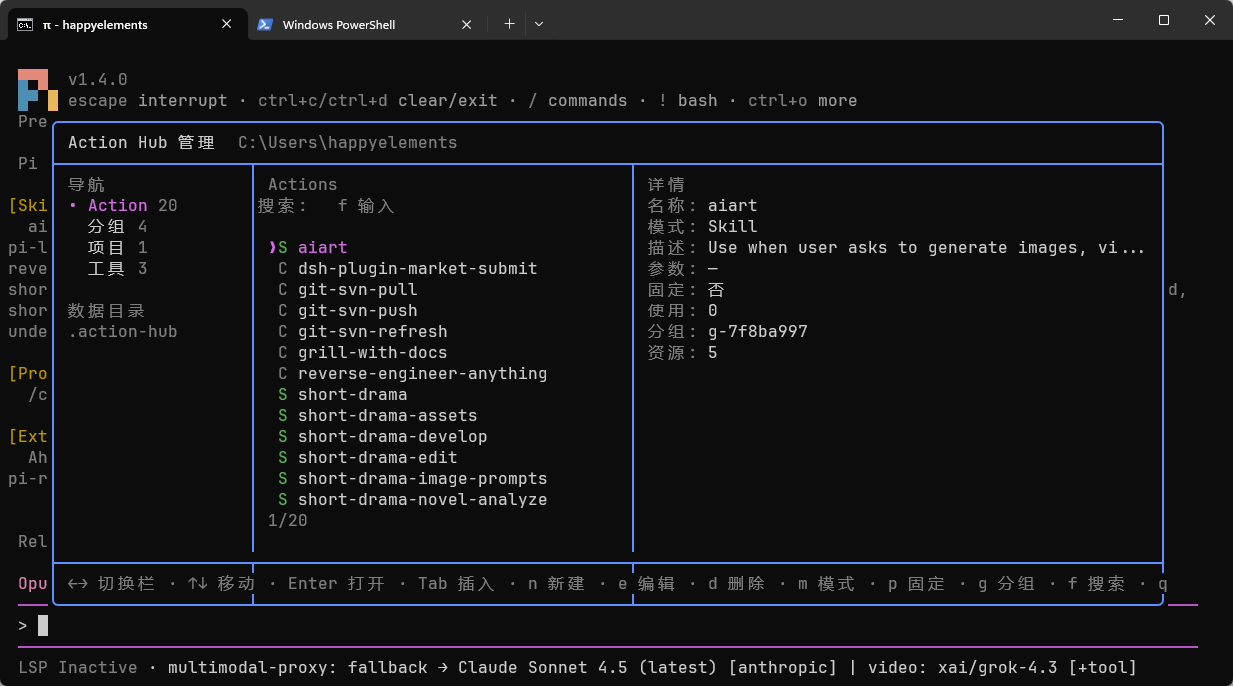
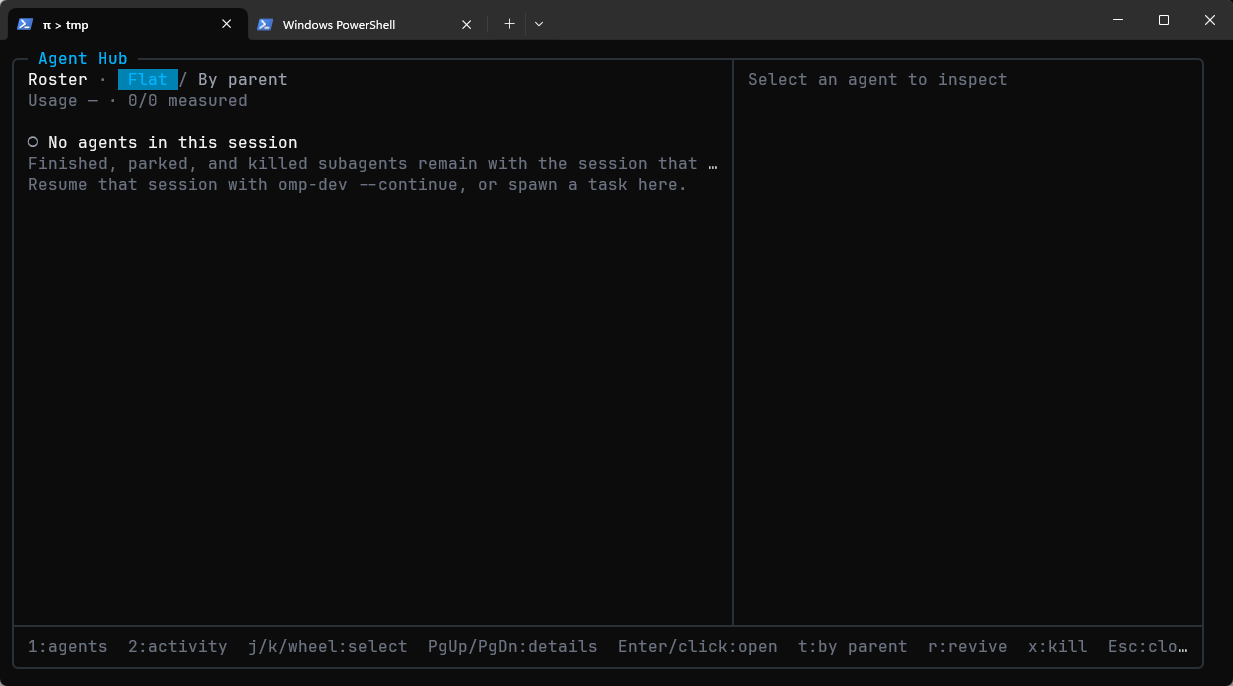
docs: address review findings and refresh package metadata

diff --git a/packages/pi/README.md b/packages/pi/README.md
@@ -27,7 +27,7 @@ omp plugin install git:github.com/AhaCrazy/action-hub --force
 omp plugin uninstall action-hub-workspace
 ```
 
-OMP 插件包名是 `action-hub-workspace`；OMP 不通过 Pi 的 release `.tgz` 安装。
+OMP 插件包名是 `action-hub-workspace`；推荐使用 Git 安装，Pi 的 release `.tgz` 不是官方 OMP 路径。
 
 ## 打开面板
 
@@ -114,30 +114,28 @@ C:\Users\<你>\.action-hub
 
 `state.json` 只保存共享的 Action 元数据、分组和全局分组。
 
-项目范围保存在当前 harness 的 session 目录中：
+项目范围保存在当前 harness 的 session 存储目录中，子目录名由项目根编码（最近的已登记工作区或 `.git` 祖先；没有则使用 cwd）：
 
 ```text
 Pi:
-C:\Users\<你>\.pi\agent\sessions\<workdir>\action-hub\scope.json
+C:\Users\<你>\.pi\agent\sessions\<encoded-project-root>\action-hub\scope.json
 
 OMP:
-C:\Users\<你>\.omp\agent\sessions\<workdir>\action-hub\scope.json
+C:\Users\<你>\.omp\agent\sessions\<encoded-project-root>\action-hub\scope.json
 ```
 
 使用 OMP profile 时，范围位于：
 
 ```text
-C:\Users\<你>\.omp\profiles\<profile>\agent\sessions\<workdir>\action-hub\scope.json
+C:\Users\<你>\.omp\profiles\<profile>\agent\sessions\<encoded-project-root>\action-hub\scope.json
 ```
 
-项目范围使用当前 session 的实际目录，因此在 Pi、OMP 以及 OMP profile 之间各自独立；删除该 workdir 的 session 目录时，范围会一起删除。
+项目范围使用当前 session 的存储根 + 项目根编码，因此在 Pi、OMP 以及 OMP profile 之间各自独立；删除对应 session 子目录时，范围会一起删除。
 
 ## 平台差异
 
 - Pi / OMP 没有 DSH 的侧边栏和 composer chip；Action 直接插入编辑器。
 - Pi / OMP 的 Skill 入口使用原生 `/skill:<name>`。
 - 修改模式、分组或项目范围后，退出管理界面会自动重新加载资源；如果编辑器里已有草稿或当前上下文无法提交 reload 命令，会提示执行 `/ah reload`。外部文件修改也可用 `/ah reload`。
-- OMP 通过其 Pi 兼容层加载本扩展；项目范围跟随 OMP 的实际 session 目录，包括 `--profile`。
 - OMP 的 `Alt+A` 属于内置 Agent Hub；Action 面板使用 `/ah` 或 `Alt+Shift+A`。
-- 修改模式、分组或项目范围后，退出管理界面会自动重新加载；如果编辑器里已有草稿或当前上下文无法提交 reload 命令，会提示执行 `/ah reload`。
 - 管理界面的当前焦点栏标题前显示 `▶`，非焦点栏内容变暗。

diff --git a/CONTRIBUTING.md b/CONTRIBUTING.md
@@ -22,7 +22,7 @@ action-hub/
 - `dsh-action-hub`
 - `pi-action-hub`
 
-OMP 不单独发布包，而是通过 OMP 的 legacy Pi 兼容层加载 `pi-action-hub`。两个发布包在构建时都会把 core 打进自己的 `dist`，因此不需要单独发布 core npm 包。
+OMP 不单独发布包：它从仓库根安装，OMP 插件名是 `action-hub-workspace`，内部复用 `packages/pi` 适配器。两个发布包在构建时都会把 core 打进自己的 `dist`，因此不需要单独发布 core npm 包。
 
 ## 开发环境
 
@@ -88,7 +88,7 @@ pi-action-hub-0.1.0.tgz
 ### DSH
 
 ```powershell
-dsh plugin --profile desktop add E:\Data\Projs\action-hub\packages\dsh
+dsh plugin --profile desktop add .\packages\dsh
 ```
 
 安装后重启 DSH，验证 Action Hub 页面和 `Alt+A`。
@@ -96,7 +96,7 @@ dsh plugin --profile desktop add E:\Data\Projs\action-hub\packages\dsh
 ### Pi
 
 ```powershell
-pi install E:\Data\Projs\action-hub\packages\pi
+pi install .\packages\pi
 ```
 
 临时加载 Pi 扩展：
@@ -124,7 +124,7 @@ omp plugin install git:github.com/AhaCrazy/action-hub --force
 - `/ah` 能打开 Action 面板；
 - `Alt+Shift+A` 能打开 Action 面板（OMP 的 `Alt+A` 属于 Agent Hub）；
 - `Ctrl+Alt+A` 能打开管理界面；
-- 项目范围写入 OMP 的 session 目录，而不是 `~/.pi`。
+- 项目范围写入 OMP 的 session 存储根 + 项目根编码，而不是 `~/.pi`。
 
 ## 发布
 
@@ -137,7 +137,7 @@ npm publish --workspace pi-action-hub --access public
 
 ### DSH
 
-发布 `dsh-action-hub` 到 npm 或 DSH 插件市场，然后更新 GitHub Release 产物。
+发布 `dsh-action-hub` 到 npm 或 DSH 插件市场属于可选渠道；用户安装只依赖 GitHub Release 的 `.tgz`。
 
 ### GitHub Release
 
@@ -152,6 +152,22 @@ npm publish --workspace pi-action-hub --access public
    - `pi-action-hub.tgz`
    - `pi-action-hub-<version>.tgz`
 5. 更新 Release 说明。
+
+稳定别名由版本化文件复制生成：
+
+```powershell
+Copy-Item pi-action-hub-0.1.0.tgz pi-action-hub.tgz
+Copy-Item dsh-action-hub-0.1.0.tgz dsh-action-hub.tgz
+```
+
+发布后校验：
+
+- 4 个资产的字节数与本地 `.tgz` 一致；
+- `sha256` 与本地文件一致；
+- `releases/latest/download/dsh-action-hub.tgz` 返回 200；
+- 包内 README、`dist` 产物来自同一个 docs 冻结后的 commit。
+
+当前没有 CI，发布与资产上传为手动流程。先冻结文档和代码，再执行 `build` / `pack`，避免包内 README 落后于 main。
 
 Release 说明至少包含：
 

diff --git a/docs/architecture.md b/docs/architecture.md
@@ -42,27 +42,29 @@ core（本仓库）
 ```text
 $ACTION_HUB_HOME/            # 默认 ~/.action-hub
   library/
-  state.json                 # 共享：Action、分组、全局分组
-  .lock
+  state.json                 # 共享：Action、分组、全局分组、使用记录
+  .write.lock/               # 跨进程写锁
 
 DSH 本地
   ~/.dsh/action-hub/workspaces/<workspaceId>.json
 
 Pi 本地
-  ~/.pi/agent/sessions/<encoded-cwd>/action-hub/scope.json
+  ~/.pi/agent/sessions/<encoded-project-root>/action-hub/scope.json
 
 OMP 本地
-  ~/.omp/agent/sessions/<encoded-cwd>/action-hub/scope.json
+  ~/.omp/agent/sessions/<encoded-project-root>/action-hub/scope.json
   （--profile 时在 ~/.omp/profiles/<profile>/agent/sessions）
 ```
 
 适配器可以把 `ACTION_HUB_HOME` 指向某个 harness 专属目录，但共用默认目录能让用户在所有 harness 中使用同一份可移植库。
 
+Pi / OMP 的 `<encoded-project-root>` 由项目根编码：最近的已登记工作区或 `.git` 祖先，没有则使用 cwd；session 存储根只决定 `scope.json` 放在哪个 session 根下。
+
 项目范围的归属规则：
 
 - 它属于某个 harness 的工作区，而不是项目仓库；
 - DSH 用稳定的 workspace ID 作为键；
-- Pi / OMP 用当前 session 目录作为键；
+- Pi / OMP 用项目根编码作为 session 目录下的子目录键；
 - 三个 harness 的项目范围默认不共享；
 - 删除工作区时，对应范围文件由适配器清理或随目录一起删除。
 
@@ -71,7 +73,9 @@ OMP 本地
 1. 由跨进程锁保护；
 2. 在锁内完成读取—修改—写入；
 3. 写入临时文件后原子重命名；
-4. 写入完成后通过文件监听通知已打开的 UI。
+4. 写入完成后由适配器显式失效缓存或 reload。
+
+当前没有 `fs.watch` 文件监听；UI 刷新依赖显式 invalidate、管理界面退出时的 reload 或 `/ah reload`。文件监听属于后续项。
 
 项目范围文件由各适配器原子写入；它们不属于共享锁的临界区。
 

diff --git a/docs/pi-adapter.md b/docs/pi-adapter.md
@@ -18,7 +18,7 @@
 - **Skill 类型 Action** → 在 `resources_discover` 中返回它的目录；Pi 会把它放进模型目录，并提供 `/skill:<name>`。
 - **Command 类型 Action** → 永不作为 Skill 返回；面板把渲染后的提示词插入编辑器。
 - **面板** → 自定义 TUI overlay：搜索（子串 + 正则）、列表、预览、参数、Enter 插入。
-- **项目范围** → 按当前 harness 的实际 session 目录保存：`<sessionDir>/<encoded-cwd>/action-hub/scope.json`。Pi 默认在 `~/.pi/agent/sessions`，OMP 默认在 `~/.omp/agent/sessions`（profile 在 `~/.omp/profiles/<profile>/agent/sessions`）；删除该 session 工作目录会一起删除范围。
+- **项目范围** → 按当前 harness 的实际 session 存储根保存：`<sessionDir>/<encoded-project-root>/action-hub/scope.json`。项目根取最近的已登记工作区或 `.git` 祖先，没有则取 cwd。Pi 默认在 `~/.pi/agent/sessions`，OMP 默认在 `~/.omp/agent/sessions`（profile 在 `~/.omp/profiles/<profile>/agent/sessions`）；删除该 session 子目录会一起删除范围。
 - **管理** → `/ah manage` 与 `Ctrl+Alt+A` 打开 TUI 管理界面，覆盖 Action、分组、项目范围、导入导出和设置。通过 `/ah manage` 进入时使用原生 reload；快捷键入口会尝试通过编辑器提交 `/ah reload` 自动重载，编辑器有草稿或提交失败时提示手动执行 `/ah reload`。
 
 ## OMP 兼容
@@ -38,8 +38,7 @@ packages/pi/
   dist/action-hub.js  # 发布用自包含 bundle（含 core）
 ```
 
-安装方式：发布后使用 `pi install npm:pi-action-hub`，或从仓库根执行
-`pi install git:github.com/AhaCrazy/action-hub`；OMP 使用
+安装方式：npm 包尚未发布，当前使用 `pi install git:github.com/AhaCrazy/action-hub`；OMP 使用
 `omp plugin install git:github.com/AhaCrazy/action-hub`。Pi / OMP 在自己的进程内运行扩展；
 没有服务、端口或浏览器窗口。
 

diff --git a/README.md b/README.md
@@ -159,14 +159,14 @@ DSH:
 C:\Users\<你>\.dsh\action-hub\workspaces\<workspace-id>.json
 
 Pi:
-C:\Users\<你>\.pi\agent\sessions\<workdir>\action-hub\scope.json
+C:\Users\<你>\.pi\agent\sessions\<encoded-project-root>\action-hub\scope.json
 
 OMP:
-C:\Users\<你>\.omp\agent\sessions\<workdir>\action-hub\scope.json
+C:\Users\<你>\.omp\agent\sessions\<encoded-project-root>\action-hub\scope.json
 （使用 --profile 时位于 .omp\profiles\<profile>\agent\sessions）
 ```
 
-项目范围使用当前 harness 实际的 session 目录，所以 Pi、OMP 各自跟随自己的工作区；同一个项目在 DSH、Pi、OMP 中可以有不同范围。删除对应工作区时，范围文件也会一起清理。
+项目范围保存在当前 harness 的 session 存储目录下，子目录名由项目根编码（最近的已登记工作区或 `.git` 祖先；没有则使用 cwd）。因此 Pi、OMP 各自跟随自己的工作区；同一个项目在 DSH、Pi、OMP 中可以有不同范围。删除对应 session 子目录时，范围文件也会一起清理。
 
 旧版 DSH 插件的数据在：
 
@@ -215,7 +215,7 @@ npm 包还没有发布。请使用本文档里的 Git 安装命令。
 
 - DSH：原生 Web UI、`Alt+A`、composer 插入、项目范围、Skill provider。
 - Pi：原生 TUI 面板、`Alt+A`、`Ctrl+Alt+A` 管理界面、编辑器插入、Action / 分组 / 项目范围 / 导入导出管理、`resources_discover`。
-- OMP：通过 Pi 兼容层加载同一扩展，提供 `/ah`、`Alt+Shift+A`、`Ctrl+Alt+A`、编辑器插入、项目范围和 `resources_discover`；项目范围跟随 OMP 实际 session 目录。
+- OMP：通过 Pi 兼容层加载同一扩展，提供 `/ah`、`Alt+Shift+A`、`Ctrl+Alt+A`、编辑器插入、项目范围和 `resources_discover`；项目范围使用 OMP session 存储根 + 项目根编码。
 - 其他 harness：可基于同一套核心继续增加适配器。
 
 ## 开发

diff --git a/docs/omp.md b/docs/omp.md
@@ -71,7 +71,7 @@ Ctrl+Alt+A
 - `omp plugin list` 应能看到 `action-hub-workspace`；
 - 如果安装后没有 `/ah`，先重启 OMP；
 - Windows 上用本地路径安装可能因 symlink 权限报 `EPERM`，改用 Git 安装；
-- OMP 不通过 Pi 的 release `.tgz` 安装，而是使用 Git 安装。
+- 推荐使用 Git 安装（插件名 `action-hub-workspace`）；Pi 的 release `.tgz` 不是官方 OMP 安装路径，包名和更新方式不同。
 
 ## 二、功能说明
 
@@ -158,23 +158,23 @@ Skill 也可以由用户主动调用：
 
 ### 项目范围
 
-OMP 的项目范围跟随当前 session 的实际目录，而不是硬编码 `~/.pi`：
+OMP 的项目范围保存在当前 session 存储目录下；子目录名由项目根编码（最近的已登记工作区或 `.git` 祖先；没有则使用 cwd），而不是硬编码 `~/.pi`：
 
 ```text
-C:\Users\<你>\.omp\agent\sessions\<workdir>\action-hub\scope.json
+C:\Users\<你>\.omp\agent\sessions\<encoded-project-root>\action-hub\scope.json
 ```
 
 使用 OMP profile 时：
 
 ```text
-C:\Users\<你>\.omp\profiles\<profile>\agent\sessions\<workdir>\action-hub\scope.json
+C:\Users\<你>\.omp\profiles\<profile>\agent\sessions\<encoded-project-root>\action-hub\scope.json
 ```
 
 使用 `--session-dir` 时跟随自定义目录。
 
-- 每个 OMP 工作区独立；
-- 同一个工作区在 Pi、OMP、DSH 中的范围互相独立；
-- 删除对应 session 工作目录时，范围文件一起删除。
+- 每个项目根独立；
+- 同一个项目在 Pi、OMP、DSH 中的范围互相独立；
+- 删除对应 session 子目录时，范围文件一起删除。
 
 ### Skill 自动发现与重载
 

diff --git a/docs/dsh.md b/docs/dsh.md
@@ -65,11 +65,9 @@ dsh plugin --profile desktop remove dsh-action-hub
 
 `Alt+A` 或输入框工具行按钮打开：
 
-![DSH Action Hub 面板](../packages/dsh/assets/screenshots/01-palette.png)
-
 - 按名称、描述、正文搜索；
 - 输入框右侧 `.*` 或 `Alt+R` 切换正则搜索；
-- 每行标记 `[Command]` 或 `[Skill]`；
+- 每行标记 `Command` 或 `Skill`；
 - `Enter` / `Tab` 插入；
 - `Ctrl/⌘ + Enter` 直接发送。
 
@@ -78,13 +76,11 @@ Command 插入行为：
 - 无参数：插入引用 chip；
 - 有参数：插入展开后的正文。
 
-Skill：插入 Skill 引用，由 DSH 自行加载正文。
+Skill：插入展开后的技能正文，由用户显式调用；模型侧仍通过 Skill provider 自动发现。
 
 ### 管理页面
 
-`Ctrl+Alt+A` 或管理页进入：
-
-![DSH Action Hub 管理页](../packages/dsh/assets/screenshots/02-library.png)
+`Ctrl+Alt+A`（macOS `⌘+⌥+A`）或管理页进入：
 
 支持：
 
@@ -127,7 +123,7 @@ C:\Users\<你>\.action-hub
   state.json
 ```
 
-`SKILL.md` 是可移植内容；`state.json` 保存动作元数据、分组和全局分组，不进入导出包。
+`SKILL.md` 是可移植内容；`state.json` 保存动作元数据、分组、全局分组和使用记录，不进入导出包。
 
 旧版插件数据在：
 

diff --git a/packages/core/README.md b/packages/core/README.md
@@ -56,11 +56,11 @@ npm test
 
 - DSH：[`../dsh`](../dsh) — Cordis 插件，提供原生 Web UI、Alt+A 面板、composer chip 和 Skill provider。
 - Pi：[`../pi`](../pi) — Pi 包，提供原生 TUI 面板和 `resources_discover`。
-- OMP：通过 OMP 的 legacy Pi 兼容层加载 [`../pi`](../pi)，不新增独立包；项目范围跟随 OMP 实际 session 目录。
+- OMP：通过 OMP 的 legacy Pi 兼容层加载 [`../pi`](../pi)，不新增独立包；项目范围使用 OMP session 存储根 + 项目根编码。
 
 开发态 DSH / Pi 适配器都通过 `file:../core` 链接本核心；发布构建会把本核心打进各自的
 `dist`，因此对外只有 `pi-action-hub` 和 `dsh-action-hub` 两个安装包，不需要单独发布
-core npm 包。OMP 使用 `pi-action-hub` 的 Git 安装。
+core npm 包。OMP 从仓库根安装（插件名 `action-hub-workspace`），使用 Git 安装。
 
 参见 [../../docs/architecture.md](../../docs/architecture.md) 和
 [../../docs/adapter-contract.md](../../docs/adapter-contract.md)。

diff --git a/docs/pi.md b/docs/pi.md
@@ -78,8 +78,6 @@ Skill 也可以由用户主动调用：
 
 或按 `Ctrl+Alt+A`。
 
-![Pi Action Hub 管理界面](assets/pi-manager.png)
-
 三栏布局：
 
 ```text
@@ -118,15 +116,15 @@ Skill 也可以由用户主动调用：
 
 ### 项目范围
 
-项目范围跟随 Pi 当前 session 的 workdir：
+项目范围保存在当前 Pi session 存储目录下；子目录名由项目根编码（最近的已登记工作区或 `.git` 祖先；没有则使用 cwd）：
 
 ```text
-C:\Users\<你>\.pi\agent\sessions\<workdir>\action-hub\scope.json
+C:\Users\<你>\.pi\agent\sessions\<encoded-project-root>\action-hub\scope.json
 ```
 
-- 每个 Pi 工作目录独立；
-- 同一工作目录的多个会话共享范围；
-- 删除对应 session 工作目录时，范围文件一起删除；
+- 每个项目根独立；
+- 同一项目根的多个 Pi 会话共享范围；
+- 删除对应 session 子目录时，范围文件一起删除；
 - 同一个项目在 DSH、Pi、OMP 中的范围互相独立。
 
 ### Skill 自动发现与重载
